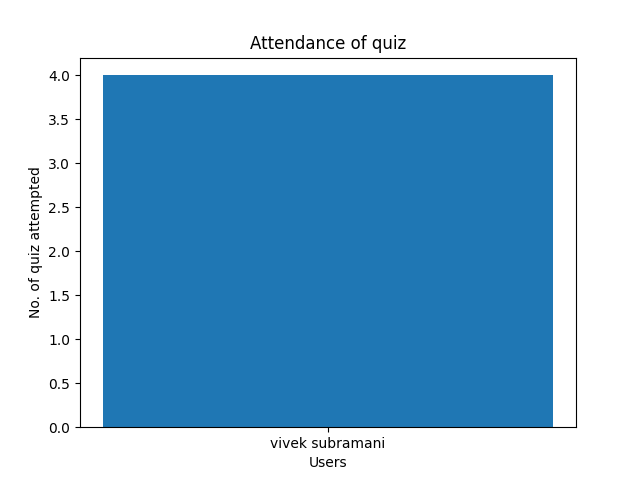
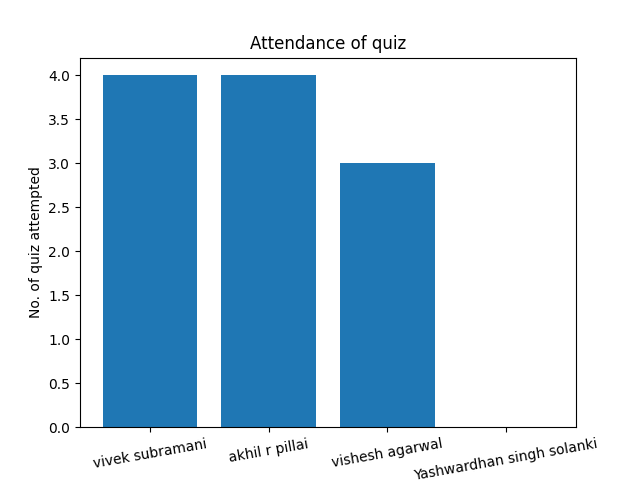
minor corrections in error messages and graph labels

Changed region(s): [[0.3438, 0.1562, 0.875, 0.9688], [0.1562, 0.1562, 0.3438, 0.9688], [0.6562, 0.9062, 0.9375, 1.0]]

diff --git a/templates/user_scores.html b/templates/user_scores.html
@@ -64,6 +64,15 @@
                         {% endif %}
                       </tr>
                     {% endfor %}
+                    {% if msg %}
+                    <tr>  
+                      <td colspan="6">
+                        <div class="alert alert-danger text-center">
+                          {{ msg }}
+                        </div>
+                      </td>
+                    </tr>
+                    {% endif %}
                   </tbody>
                 </table>
               </div>

diff --git a/controllers/main.py b/controllers/main.py
@@ -133,6 +133,9 @@ def scores(u_name):
         return render_template('user_scores.html', u_name=u_name, score=score,dte=dte)
     user = User.query.filter_by(username=u_name).first()
     score = Score.query.filter_by(user_id=user.id)
+    if 'msg' in request.args:
+        msg = request.args.get('msg')
+        return render_template('user_scores.html', u_name=u_name, score=score, msg=msg, dte=dte)
     return render_template('user_scores.html', u_name=u_name, score=score, dte=dte)
 
 @app.route('/admin',methods=['GET','POST'])
@@ -573,9 +576,10 @@ def edit_question(question_id,quiz_id):
         if o1 or o2 or o3 or o4:
             emsg = "Please give entries for all options"
             return redirect(url_for('editquestion',emsg=emsg, quiz_id=quiz_id,question_id=question_id))
-    if int(co) not in [1,2,3,4]:
-        emsg = "valid correct options - 1,2,3,4!"
-        return redirect(url_for('editquestion',emsg=emsg, quiz_id=quiz_id,question_id=question_id))
+    if co:
+        if int(co) not in [1,2,3,4]:
+            emsg = "valid correct options - 1,2,3,4!"
+            return redirect(url_for('editquestion',emsg=emsg, quiz_id=quiz_id,question_id=question_id))
     
     if title:
         question.title = title
@@ -897,10 +901,13 @@ def adminsummary():
     plt.xlabel("Users")
     plt.ylabel("No. of quiz attempted")
     plt.title("Attendance of quiz")
+    plt.xticks(rotation=10)
     plt.savefig('static/adimg1.png')
 
-    
-    score = Score.query.filter_by().all()
+    user_ids = []
+    for i in user:
+        user_ids.append(i.id)
+    score = Score.query.filter(Score.user_id.in_(user_ids)).all()
     chapter_time = {}
     for i in score:
         obj = datetime.strptime(i.time_taken, "%H:%M:%S")
@@ -923,6 +930,7 @@ def adminsummary():
     plt.xlabel("Chapter Name")
     plt.ylabel("Time Taken(Seconds)")
     plt.title(" Average time taken for each chapter")
+    plt.xticks(rotation=10)
     plt.savefig('static/adimg2.png')
 
 
@@ -947,8 +955,12 @@ def adminsummary():
     plt.xlabel("User Name")
     plt.ylabel("Percentage")
     plt.title("Average percentage in all quizzes")
+    plt.xticks(rotation=10)
     plt.savefig('static/adimg3.png')
 
+    if not score:
+        msg = 'no user has attempted any quizzes'
+        return render_template('adminsummary.html',msg=msg)
     return render_template('adminsummary.html')
 
 
